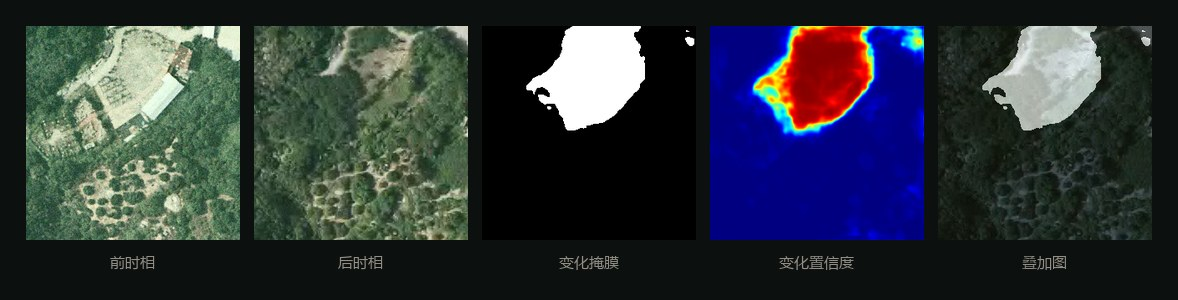
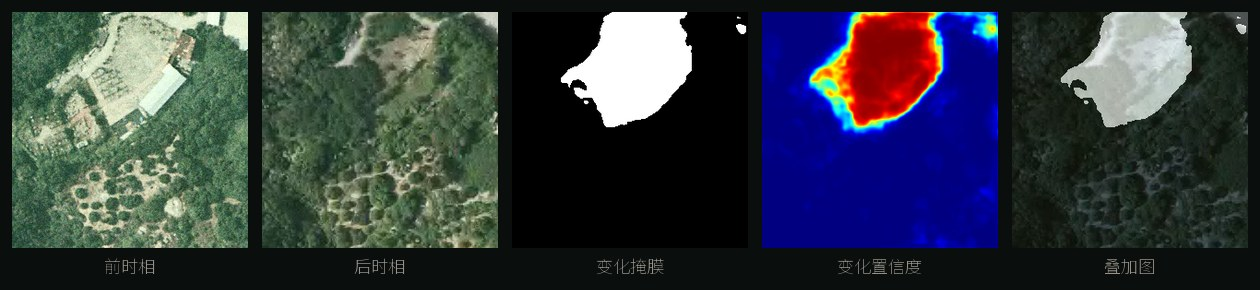
ui(overview): 统计卡可点、空值不再难看、能力卡有去向
三处都是「信息没传达出去」的问题：

1. **统计卡不可点**。四个数字摆在那里，看完就没了。现在每张卡都跳到
   对应的页面（模型→单张检测、累计检测→检测历史、覆盖地区→检测地图、
   在册地块→地块信息），带 hover 与键盘焦点样式。

2. **0 值用强调色摆着**。「0 在册地块」看起来像是系统坏了。现在 0 和「—」
   一律转灰、并在标签后补一个「暂无 / none yet」（走 i18n，不是 CSS 写死）。

3. **能力卡看不出能点**。补了右下角箭头，hover 时变绿右移。

顺带：hero 右侧的胶片条原先套了一层自己的深色底，成了「盒子里套盒子」，
暗色下几乎糊成一片；去掉那层底、给一条细边，并把图片重新生成得更满。

验证：三张卡依次点击落点正确；中英 × 明暗四种组合空值文案都对；
17 页扫描零错误；213 passed；ruff 全绿。sw v28 → v29。

diff --git a/frontend/css/styles.css b/frontend/css/styles.css
@@ -5663,8 +5663,8 @@ html[data-landing="show"] .chatbot-widget { display: none; }
    ============================================================ */
 .ov-hero {
     display: grid;
-    grid-template-columns: minmax(0, 1fr) minmax(0, 1.05fr);
-    gap: clamp(20px, 3vw, 44px);
+    grid-template-columns: minmax(0, 0.76fr) minmax(0, 1.24fr);
+    gap: clamp(20px, 2.4vw, 36px);
     align-items: center;
     padding: clamp(18px, 2.4vw, 30px);
     border-radius: var(--radius-lg, 14px);
@@ -5718,13 +5718,17 @@ html[data-landing="show"] .chatbot-widget { display: none; }
 
 .ov-figure {
     margin: 0;
+    /* 图本身自带深色边，再包一层背景就成了「盒子里套盒子」，
+       右侧看着空荡荡。这里不画自己的底，让图直接贴到卡片上。 */
     border-radius: 10px;
     overflow: hidden;
-    background: #0a0e0c;
     line-height: 0;
 }
 /* 图本身是五格胶片条（1178×300）。这里按原始比例铺满，
    不要用 16:9 + cover —— 那会把上下裁掉、左右留一圈黑边 */
+/* 暗色下图片自带的深底和卡片几乎同色，会糊成一整块；给一条极细的边把它框出来 */
+[data-theme="dark"] .ov-figure { border: 1px solid var(--border); }
+
 .ov-figure img {
     display: block;
     width: 100%;
@@ -5738,11 +5742,32 @@ html[data-landing="show"] .chatbot-widget { display: none; }
     margin-bottom: 26px;
 }
 .ov-stat {
+    display: block;
+    width: 100%;
+    text-align: left;
+    font: inherit;
+    cursor: pointer;
     padding: 16px 18px;
     border-radius: 10px;
     border: 1px solid var(--border);
     background: var(--bg-card);
+    color: var(--text-primary);
+    transition: border-color .15s, transform .15s;
 }
+.ov-stat:hover { border-color: var(--primary); transform: translateY(-1px); }
+.ov-stat:focus-visible { outline: 2px solid var(--primary); outline-offset: 2px; }
+
+/* 0 / 未知不是「成绩」，别用强调色摆着。弱化成灰，读者一眼知道这里是空的，
+   也不会把「0 个地块」当成系统出问题。 */
+.ov-stat.is-empty b { color: var(--text-tertiary); font-weight: 600; }
+.ov-stat-empty {
+    display: none;
+    margin-left: 6px;
+    font-size: 12px;
+    font-style: normal;
+    color: var(--text-tertiary);
+}
+.ov-stat.is-empty .ov-stat-empty { display: inline; }
 .ov-stat b {
     display: block;
     font-size: clamp(20px, 2vw, 26px);
@@ -5769,6 +5794,7 @@ html[data-landing="show"] .chatbot-widget { display: none; }
     gap: 14px;
 }
 .ov-cap {
+    position: relative;
     display: block;
     width: 100%;
     text-align: left;
@@ -5787,6 +5813,16 @@ html[data-landing="show"] .chatbot-widget { display: none; }
     box-shadow: 0 6px 18px rgba(0, 0, 0, .08);
 }
 .ov-cap svg { color: var(--primary); margin-bottom: 10px; }
+.ov-cap::after {
+    content: "→";
+    position: absolute;
+    right: 18px;
+    bottom: 16px;
+    font-size: 15px;
+    color: var(--text-tertiary);
+    transition: color .15s, transform .15s;
+}
+.ov-cap:hover::after { color: var(--primary); transform: translateX(3px); }
 .ov-cap h3 {
     margin: 0 0 6px;
     font-size: 15px;

diff --git a/frontend/index.html b/frontend/index.html
@@ -500,10 +500,10 @@
                 </section>
 
                 <section class="ov-stats" aria-label="系统规模">
-                    <div class="ov-stat"><b id="ovStatModels">—</b><span data-i18n="overview.statModels">可用检测模型</span></div>
-                    <div class="ov-stat"><b id="ovStatDetections">—</b><span data-i18n="overview.statDetections">累计检测</span></div>
-                    <div class="ov-stat"><b id="ovStatRegions">—</b><span data-i18n="overview.statRegions">覆盖地区</span></div>
-                    <div class="ov-stat"><b id="ovStatPlots">—</b><span data-i18n="overview.statPlots">在册地块</span></div>
+                    <button type="button" class="ov-stat" data-go="single"><b id="ovStatModels">—</b><span data-i18n="overview.statModels">可用检测模型</span><em class="ov-stat-empty" data-i18n="overview.none">暂无</em></button>
+                    <button type="button" class="ov-stat" data-go="history"><b id="ovStatDetections">—</b><span data-i18n="overview.statDetections">累计检测</span><em class="ov-stat-empty" data-i18n="overview.none">暂无</em></button>
+                    <button type="button" class="ov-stat" data-go="mapviewer"><b id="ovStatRegions">—</b><span data-i18n="overview.statRegions">覆盖地区</span><em class="ov-stat-empty" data-i18n="overview.none">暂无</em></button>
+                    <button type="button" class="ov-stat" data-go="land"><b id="ovStatPlots">—</b><span data-i18n="overview.statPlots">在册地块</span><em class="ov-stat-empty" data-i18n="overview.none">暂无</em></button>
                 </section>
 
                 <section class="ov-caps">

diff --git a/frontend/js/overview.js b/frontend/js/overview.js
@@ -25,7 +25,7 @@ export const Overview = {
         on('ovStartBtn', () => this.go('single'));
         on('ovSampleBtn', () => Landing.runSample());
 
-        document.querySelectorAll('#page-overview .ov-cap').forEach((card) => {
+        document.querySelectorAll('#page-overview .ov-cap, #page-overview .ov-stat').forEach((card) => {
             card.onclick = () => this.go(card.dataset.go);
         });
 
@@ -39,7 +39,15 @@ export const Overview = {
 
     _set(id, value) {
         const el = document.getElementById(id);
-        if (el) el.textContent = value;
+        if (!el) return;
+        el.textContent = value;
+        // 「0」和「—」不是成绩，别用强调色摆着；顺带在标签后補一句「暂无」，
+        // 免得读者以为是系统出错
+        const cell = el.closest('.ov-stat');
+        if (cell) {
+            const empty = value === '—' || value === '0' || value === '0 / 0';
+            cell.classList.toggle('is-empty', empty);
+        }
     },
 
     async render() {

diff --git a/frontend/js/locales/zh-CN.js b/frontend/js/locales/zh-CN.js
@@ -941,4 +941,6 @@ export const zhCN = {
 
     "about.logV11": "首屏与系统概览、前沿资讯（arXiv 论文 + AI 中文摘要）、GitHub 登录、批量检测改服务端队列、游客额度改服务端计数、全站 i18n 收口",
 
+    "overview.none": "暂无",
+
 };

diff --git a/frontend/js/locales/en.js b/frontend/js/locales/en.js
@@ -899,4 +899,6 @@ export const en = {
 
     "about.logV11": "Landing page and overview, research digest (arXiv papers + AI summaries), GitHub sign-in, server-side batch queue, server-side guest quota, i18n cleanup",
 
+    "overview.none": "none yet",
+
 };

diff --git a/frontend/sw.js b/frontend/sw.js
@@ -1,4 +1,4 @@
-const CACHE_NAME = 'bitcd-v28';
+const CACHE_NAME = 'bitcd-v29';
 
 const PRECACHE_URLS = [
   './',
